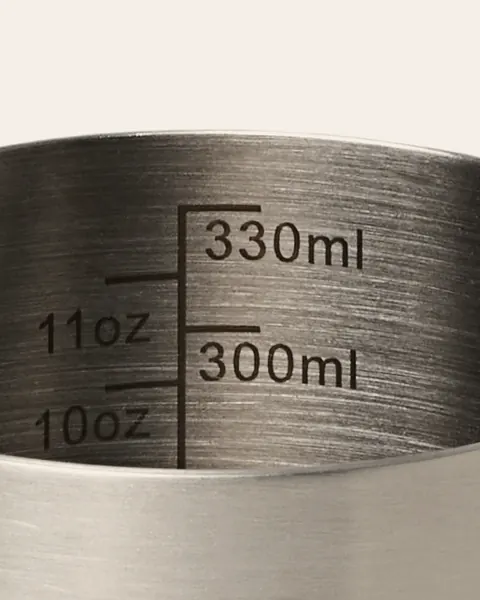
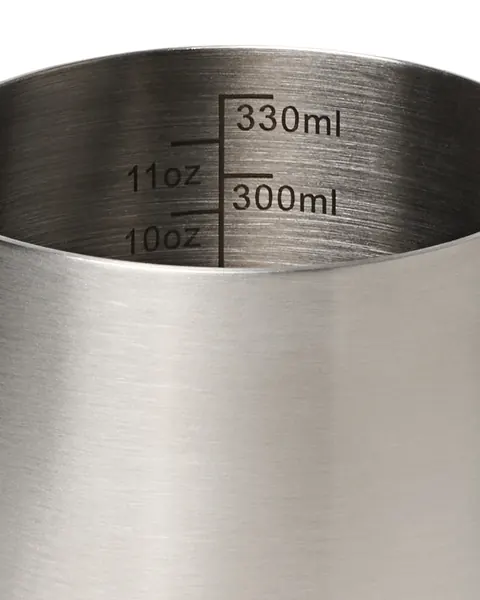
mjoar.com v4: Nachbesserung nach Sichtprüfung (Hero, Detailbilder, Überlauf)
- Hero Desktop: Text links (Spalten 1-5), Familienbild rechts als ganzes
  Original 1:1 (familie-q), Überschrift und Bild im ersten Schirm, keine
  Kanne angeschnitten; mobil unverändert
- Detailbilder neu aus den Originalen (bilder.py): Wand 0307 und Griff 0182
  mit 1600 x 2000, Ausguss und Skala aus 0215 (Original 1284 px); Nahaufnahmen
  auf Weiß, per CSS ins Creme multipliziert, kein eingerechneter Kasten mehr
- Details: Text in allen fünf Zeilen vertikal mittig zum Bild (align-self)
- Mobil: Kopfzeile passt bis 360 px, kein waagerechter Überlauf mehr

diff --git a/de/index.html b/de/index.html
@@ -36,9 +36,9 @@
   </div>
 </header>
 <main id="inhalt">
-<section class="hero">
-  <div class="innen hero-bild"><picture><source media="(max-width: 720px)" srcset="/assets/web/familie-m-480.webp 480w, /assets/web/familie-m-960.webp 960w, /assets/web/familie-m-1600.webp 1600w, /assets/web/familie-m-2400.webp 2400w" sizes="100vw" width="960" height="1200"><img src="/assets/web/familie-d-960.webp" srcset="/assets/web/familie-d-480.webp 480w, /assets/web/familie-d-960.webp 960w, /assets/web/familie-d-1600.webp 1600w, /assets/web/familie-d-2400.webp 2400w" sizes="100vw" width="960" height="640" alt="Die LUN in vier Farben" fetchpriority="high" decoding="async"></picture></div>
-  <div class="innen raster hero-text">
+<section class="hero innen raster">
+  <div class="hero-bild"><picture><source media="(max-width: 720px)" srcset="/assets/web/familie-m-480.webp 480w, /assets/web/familie-m-960.webp 960w, /assets/web/familie-m-1600.webp 1600w, /assets/web/familie-m-2400.webp 2400w" sizes="100vw" width="960" height="1200"><source media="(max-width: 860px)" srcset="/assets/web/familie-d-480.webp 480w, /assets/web/familie-d-960.webp 960w, /assets/web/familie-d-1600.webp 1600w, /assets/web/familie-d-2400.webp 2400w" sizes="100vw" width="960" height="640"><img src="/assets/web/familie-q-960.webp" srcset="/assets/web/familie-q-480.webp 480w, /assets/web/familie-q-960.webp 960w, /assets/web/familie-q-1600.webp 1600w, /assets/web/familie-q-2400.webp 2400w" sizes="640px" width="960" height="960" alt="Die LUN in vier Farben" fetchpriority="high" decoding="async"></picture></div>
+  <div class="hero-text">
     <div class="hero-zeile">
       <p class="dach">LUN 350 · Milchkännchen</p>
       <h1>Ein Milchkännchen, das stehen bleiben darf</h1>
@@ -69,7 +69,7 @@
 
 <section class="abschnitt innen" id="details">
   <div class="raster kopfzeile" data-reveal><div class="k-titel"><p class="dach">Bis ins Detail</p><h2>Für jeden Tag, für viele Jahre</h2></div><p class="k-text">Damit sie dich möglichst lange begleitet, haben wir bei der LUN auch auf die Dinge geachtet, die man nicht auf den ersten Blick sieht.</p></div>
-  <div class="raster paar bild-rechts" data-reveal><div class="paar-bild"><img class="b45" src="/assets/web/detail-ausguss-428.webp" srcset="/assets/web/detail-ausguss-428.webp 428w" sizes="(max-width: 860px) 100vw, 520px" width="960" height="1200" alt="Ausguss der LUN" loading="lazy" decoding="async"></div><div class="paar-text"><h3>Der Ausguss</h3><p>Beim Ausguss haben wir uns für eine ausgewogene Form entschieden, nicht zu schmal und nicht zu breit. So hast du Spielraum für verschiedene Muster, vom Herz bis zur Rosetta. Vorne ist er rund gezogen, dadurch läuft die Milch gleichmäßig und reißt am Ende sauber ab.</p></div></div><div class="raster paar bild-links" data-reveal><div class="paar-bild"><img class="b45" src="/assets/web/detail-wand-657.webp" srcset="/assets/web/detail-wand-480.webp 480w, /assets/web/detail-wand-657.webp 657w" sizes="(max-width: 860px) 100vw, 520px" width="960" height="1201" alt="Rand der LUN in Juniper" loading="lazy" decoding="async"></div><div class="paar-text"><h3>Die Wand</h3><p>Die LUN ist aus einem Millimeter Edelstahl 304 gefertigt, die ganze Kanne einschließlich Griff. Viele Kannen in dieser Größe sind dünner. Das zusätzliche Gewicht liegt gut in der Hand und macht das Gießen ruhiger.</p></div></div><div class="raster paar bild-rechts" data-reveal><div class="paar-bild"><img class="b45" src="/assets/web/gebrauch-aufschaeumen-960.webp" srcset="/assets/web/gebrauch-aufschaeumen-480.webp 480w, /assets/web/gebrauch-aufschaeumen-960.webp 960w, /assets/web/gebrauch-aufschaeumen-1600.webp 1600w, /assets/web/gebrauch-aufschaeumen-2400.webp 2400w" sizes="(max-width: 860px) 100vw, 520px" width="960" height="1200" alt="Milch aufschäumen mit der LUN in Juniper" loading="lazy" decoding="async"></div><div class="paar-text"><h3>Die Wärme</h3><p>Edelstahl leitet Wärme gut. Beim Aufschäumen kannst du deshalb am Korpus fühlen, wie warm die Milch gerade ist, und mit etwas Übung bekommst du dafür schnell ein Gefühl. Wird er zu heiß zum Anfassen, ist die Milch fertig. Der Griff bleibt dabei angenehm.</p></div></div><div class="raster paar bild-links" data-reveal><div class="paar-bild"><img class="b45" src="/assets/web/detail-skala-480.webp" srcset="/assets/web/detail-skala-480.webp 480w" sizes="(max-width: 860px) 100vw, 520px" width="960" height="1199" alt="Skala innen in ml und oz" loading="lazy" decoding="async"></div><div class="paar-text"><h3>Die Skala</h3><p>Innen ist eine Skala in Milliliter und Unzen lasergraviert. So kannst du jeden Morgen die gleiche Menge Milch nehmen, ohne zu schätzen. Weil sie im Stahl sitzt, hält sie auch in der Spülmaschine.</p></div></div><div class="raster paar bild-rechts" data-reveal><div class="paar-bild"><img class="b45" src="/assets/web/detail-griff-480.webp" srcset="/assets/web/detail-griff-480.webp 480w" sizes="(max-width: 860px) 100vw, 520px" width="960" height="1200" alt="Griff und Oberfläche der LUN in Linen" loading="lazy" decoding="async"></div><div class="paar-text"><h3>Der Griff</h3><p>Der Griff ist nahtlos angesetzt, ohne sichtbare Schweißpunkte. Das sieht ruhiger aus, lässt sich leichter sauber halten, und die Kanne lässt sich beim Eingießen gut führen.</p></div></div>
+  <div class="raster paar bild-rechts" data-reveal><div class="paar-bild"><img class="b45" src="/assets/web/detail-ausguss-680.webp" srcset="/assets/web/detail-ausguss-480.webp 480w, /assets/web/detail-ausguss-680.webp 680w" sizes="(max-width: 860px) 100vw, 520px" width="960" height="1200" alt="Ausguss der LUN" loading="lazy" decoding="async"></div><div class="paar-text"><h3>Der Ausguss</h3><p>Beim Ausguss haben wir uns für eine ausgewogene Form entschieden, nicht zu schmal und nicht zu breit. So hast du Spielraum für verschiedene Muster, vom Herz bis zur Rosetta. Vorne ist er rund gezogen, dadurch läuft die Milch gleichmäßig und reißt am Ende sauber ab.</p></div></div><div class="raster paar bild-links" data-reveal><div class="paar-bild"><img class="b45" src="/assets/web/detail-wand-960.webp" srcset="/assets/web/detail-wand-480.webp 480w, /assets/web/detail-wand-960.webp 960w, /assets/web/detail-wand-1600.webp 1600w" sizes="(max-width: 860px) 100vw, 520px" width="960" height="1200" alt="Rand der LUN in Juniper" loading="lazy" decoding="async"></div><div class="paar-text"><h3>Die Wand</h3><p>Die LUN ist aus einem Millimeter Edelstahl 304 gefertigt, die ganze Kanne einschließlich Griff. Viele Kannen in dieser Größe sind dünner. Das zusätzliche Gewicht liegt gut in der Hand und macht das Gießen ruhiger.</p></div></div><div class="raster paar bild-rechts" data-reveal><div class="paar-bild"><img class="b45" src="/assets/web/gebrauch-aufschaeumen-960.webp" srcset="/assets/web/gebrauch-aufschaeumen-480.webp 480w, /assets/web/gebrauch-aufschaeumen-960.webp 960w, /assets/web/gebrauch-aufschaeumen-1600.webp 1600w, /assets/web/gebrauch-aufschaeumen-2400.webp 2400w" sizes="(max-width: 860px) 100vw, 520px" width="960" height="1200" alt="Milch aufschäumen mit der LUN in Juniper" loading="lazy" decoding="async"></div><div class="paar-text"><h3>Die Wärme</h3><p>Edelstahl leitet Wärme gut. Beim Aufschäumen kannst du deshalb am Korpus fühlen, wie warm die Milch gerade ist, und mit etwas Übung bekommst du dafür schnell ein Gefühl. Wird er zu heiß zum Anfassen, ist die Milch fertig. Der Griff bleibt dabei angenehm.</p></div></div><div class="raster paar bild-links" data-reveal><div class="paar-bild"><img class="b45" src="/assets/web/detail-skala-784.webp" srcset="/assets/web/detail-skala-480.webp 480w, /assets/web/detail-skala-784.webp 784w" sizes="(max-width: 860px) 100vw, 520px" width="960" height="1200" alt="Skala innen in ml und oz" loading="lazy" decoding="async"></div><div class="paar-text"><h3>Die Skala</h3><p>Innen ist eine Skala in Milliliter und Unzen lasergraviert. So kannst du jeden Morgen die gleiche Menge Milch nehmen, ohne zu schätzen. Weil sie im Stahl sitzt, hält sie auch in der Spülmaschine.</p></div></div><div class="raster paar bild-rechts" data-reveal><div class="paar-bild"><img class="b45" src="/assets/web/detail-griff-960.webp" srcset="/assets/web/detail-griff-480.webp 480w, /assets/web/detail-griff-960.webp 960w, /assets/web/detail-griff-1600.webp 1600w" sizes="(max-width: 860px) 100vw, 520px" width="960" height="1200" alt="Griff und Oberfläche der LUN in Linen" loading="lazy" decoding="async"></div><div class="paar-text"><h3>Der Griff</h3><p>Der Griff ist nahtlos angesetzt, ohne sichtbare Schweißpunkte. Das sieht ruhiger aus, lässt sich leichter sauber halten, und die Kanne lässt sich beim Eingießen gut führen.</p></div></div>
 </section>
 
 <section class="abschnitt innen" id="gut-zu-wissen">

diff --git a/index.html b/index.html
@@ -36,9 +36,9 @@
   </div>
 </header>
 <main id="inhalt">
-<section class="hero">
-  <div class="innen hero-bild"><picture><source media="(max-width: 720px)" srcset="/assets/web/familie-m-480.webp 480w, /assets/web/familie-m-960.webp 960w, /assets/web/familie-m-1600.webp 1600w, /assets/web/familie-m-2400.webp 2400w" sizes="100vw" width="960" height="1200"><img src="/assets/web/familie-d-960.webp" srcset="/assets/web/familie-d-480.webp 480w, /assets/web/familie-d-960.webp 960w, /assets/web/familie-d-1600.webp 1600w, /assets/web/familie-d-2400.webp 2400w" sizes="100vw" width="960" height="640" alt="Die LUN in vier Farben" fetchpriority="high" decoding="async"></picture></div>
-  <div class="innen raster hero-text">
+<section class="hero innen raster">
+  <div class="hero-bild"><picture><source media="(max-width: 720px)" srcset="/assets/web/familie-m-480.webp 480w, /assets/web/familie-m-960.webp 960w, /assets/web/familie-m-1600.webp 1600w, /assets/web/familie-m-2400.webp 2400w" sizes="100vw" width="960" height="1200"><source media="(max-width: 860px)" srcset="/assets/web/familie-d-480.webp 480w, /assets/web/familie-d-960.webp 960w, /assets/web/familie-d-1600.webp 1600w, /assets/web/familie-d-2400.webp 2400w" sizes="100vw" width="960" height="640"><img src="/assets/web/familie-q-960.webp" srcset="/assets/web/familie-q-480.webp 480w, /assets/web/familie-q-960.webp 960w, /assets/web/familie-q-1600.webp 1600w, /assets/web/familie-q-2400.webp 2400w" sizes="640px" width="960" height="960" alt="Die LUN in vier Farben" fetchpriority="high" decoding="async"></picture></div>
+  <div class="hero-text">
     <div class="hero-zeile">
       <p class="dach">LUN 350 · Milchkännchen</p>
       <h1>Ein Milchkännchen, das stehen bleiben darf</h1>
@@ -69,7 +69,7 @@
 
 <section class="abschnitt innen" id="details">
   <div class="raster kopfzeile" data-reveal><div class="k-titel"><p class="dach">Bis ins Detail</p><h2>Für jeden Tag, für viele Jahre</h2></div><p class="k-text">Damit sie dich möglichst lange begleitet, haben wir bei der LUN auch auf die Dinge geachtet, die man nicht auf den ersten Blick sieht.</p></div>
-  <div class="raster paar bild-rechts" data-reveal><div class="paar-bild"><img class="b45" src="/assets/web/detail-ausguss-428.webp" srcset="/assets/web/detail-ausguss-428.webp 428w" sizes="(max-width: 860px) 100vw, 520px" width="960" height="1200" alt="Ausguss der LUN" loading="lazy" decoding="async"></div><div class="paar-text"><h3>Der Ausguss</h3><p>Beim Ausguss haben wir uns für eine ausgewogene Form entschieden, nicht zu schmal und nicht zu breit. So hast du Spielraum für verschiedene Muster, vom Herz bis zur Rosetta. Vorne ist er rund gezogen, dadurch läuft die Milch gleichmäßig und reißt am Ende sauber ab.</p></div></div><div class="raster paar bild-links" data-reveal><div class="paar-bild"><img class="b45" src="/assets/web/detail-wand-657.webp" srcset="/assets/web/detail-wand-480.webp 480w, /assets/web/detail-wand-657.webp 657w" sizes="(max-width: 860px) 100vw, 520px" width="960" height="1201" alt="Rand der LUN in Juniper" loading="lazy" decoding="async"></div><div class="paar-text"><h3>Die Wand</h3><p>Die LUN ist aus einem Millimeter Edelstahl 304 gefertigt, die ganze Kanne einschließlich Griff. Viele Kannen in dieser Größe sind dünner. Das zusätzliche Gewicht liegt gut in der Hand und macht das Gießen ruhiger.</p></div></div><div class="raster paar bild-rechts" data-reveal><div class="paar-bild"><img class="b45" src="/assets/web/gebrauch-aufschaeumen-960.webp" srcset="/assets/web/gebrauch-aufschaeumen-480.webp 480w, /assets/web/gebrauch-aufschaeumen-960.webp 960w, /assets/web/gebrauch-aufschaeumen-1600.webp 1600w, /assets/web/gebrauch-aufschaeumen-2400.webp 2400w" sizes="(max-width: 860px) 100vw, 520px" width="960" height="1200" alt="Milch aufschäumen mit der LUN in Juniper" loading="lazy" decoding="async"></div><div class="paar-text"><h3>Die Wärme</h3><p>Edelstahl leitet Wärme gut. Beim Aufschäumen kannst du deshalb am Korpus fühlen, wie warm die Milch gerade ist, und mit etwas Übung bekommst du dafür schnell ein Gefühl. Wird er zu heiß zum Anfassen, ist die Milch fertig. Der Griff bleibt dabei angenehm.</p></div></div><div class="raster paar bild-links" data-reveal><div class="paar-bild"><img class="b45" src="/assets/web/detail-skala-480.webp" srcset="/assets/web/detail-skala-480.webp 480w" sizes="(max-width: 860px) 100vw, 520px" width="960" height="1199" alt="Skala innen in ml und oz" loading="lazy" decoding="async"></div><div class="paar-text"><h3>Die Skala</h3><p>Innen ist eine Skala in Milliliter und Unzen lasergraviert. So kannst du jeden Morgen die gleiche Menge Milch nehmen, ohne zu schätzen. Weil sie im Stahl sitzt, hält sie auch in der Spülmaschine.</p></div></div><div class="raster paar bild-rechts" data-reveal><div class="paar-bild"><img class="b45" src="/assets/web/detail-griff-480.webp" srcset="/assets/web/detail-griff-480.webp 480w" sizes="(max-width: 860px) 100vw, 520px" width="960" height="1200" alt="Griff und Oberfläche der LUN in Linen" loading="lazy" decoding="async"></div><div class="paar-text"><h3>Der Griff</h3><p>Der Griff ist nahtlos angesetzt, ohne sichtbare Schweißpunkte. Das sieht ruhiger aus, lässt sich leichter sauber halten, und die Kanne lässt sich beim Eingießen gut führen.</p></div></div>
+  <div class="raster paar bild-rechts" data-reveal><div class="paar-bild"><img class="b45" src="/assets/web/detail-ausguss-680.webp" srcset="/assets/web/detail-ausguss-480.webp 480w, /assets/web/detail-ausguss-680.webp 680w" sizes="(max-width: 860px) 100vw, 520px" width="960" height="1200" alt="Ausguss der LUN" loading="lazy" decoding="async"></div><div class="paar-text"><h3>Der Ausguss</h3><p>Beim Ausguss haben wir uns für eine ausgewogene Form entschieden, nicht zu schmal und nicht zu breit. So hast du Spielraum für verschiedene Muster, vom Herz bis zur Rosetta. Vorne ist er rund gezogen, dadurch läuft die Milch gleichmäßig und reißt am Ende sauber ab.</p></div></div><div class="raster paar bild-links" data-reveal><div class="paar-bild"><img class="b45" src="/assets/web/detail-wand-960.webp" srcset="/assets/web/detail-wand-480.webp 480w, /assets/web/detail-wand-960.webp 960w, /assets/web/detail-wand-1600.webp 1600w" sizes="(max-width: 860px) 100vw, 520px" width="960" height="1200" alt="Rand der LUN in Juniper" loading="lazy" decoding="async"></div><div class="paar-text"><h3>Die Wand</h3><p>Die LUN ist aus einem Millimeter Edelstahl 304 gefertigt, die ganze Kanne einschließlich Griff. Viele Kannen in dieser Größe sind dünner. Das zusätzliche Gewicht liegt gut in der Hand und macht das Gießen ruhiger.</p></div></div><div class="raster paar bild-rechts" data-reveal><div class="paar-bild"><img class="b45" src="/assets/web/gebrauch-aufschaeumen-960.webp" srcset="/assets/web/gebrauch-aufschaeumen-480.webp 480w, /assets/web/gebrauch-aufschaeumen-960.webp 960w, /assets/web/gebrauch-aufschaeumen-1600.webp 1600w, /assets/web/gebrauch-aufschaeumen-2400.webp 2400w" sizes="(max-width: 860px) 100vw, 520px" width="960" height="1200" alt="Milch aufschäumen mit der LUN in Juniper" loading="lazy" decoding="async"></div><div class="paar-text"><h3>Die Wärme</h3><p>Edelstahl leitet Wärme gut. Beim Aufschäumen kannst du deshalb am Korpus fühlen, wie warm die Milch gerade ist, und mit etwas Übung bekommst du dafür schnell ein Gefühl. Wird er zu heiß zum Anfassen, ist die Milch fertig. Der Griff bleibt dabei angenehm.</p></div></div><div class="raster paar bild-links" data-reveal><div class="paar-bild"><img class="b45" src="/assets/web/detail-skala-784.webp" srcset="/assets/web/detail-skala-480.webp 480w, /assets/web/detail-skala-784.webp 784w" sizes="(max-width: 860px) 100vw, 520px" width="960" height="1200" alt="Skala innen in ml und oz" loading="lazy" decoding="async"></div><div class="paar-text"><h3>Die Skala</h3><p>Innen ist eine Skala in Milliliter und Unzen lasergraviert. So kannst du jeden Morgen die gleiche Menge Milch nehmen, ohne zu schätzen. Weil sie im Stahl sitzt, hält sie auch in der Spülmaschine.</p></div></div><div class="raster paar bild-rechts" data-reveal><div class="paar-bild"><img class="b45" src="/assets/web/detail-griff-960.webp" srcset="/assets/web/detail-griff-480.webp 480w, /assets/web/detail-griff-960.webp 960w, /assets/web/detail-griff-1600.webp 1600w" sizes="(max-width: 860px) 100vw, 520px" width="960" height="1200" alt="Griff und Oberfläche der LUN in Linen" loading="lazy" decoding="async"></div><div class="paar-text"><h3>Der Griff</h3><p>Der Griff ist nahtlos angesetzt, ohne sichtbare Schweißpunkte. Das sieht ruhiger aus, lässt sich leichter sauber halten, und die Kanne lässt sich beim Eingießen gut führen.</p></div></div>
 </section>
 
 <section class="abschnitt innen" id="gut-zu-wissen">

diff --git a/en/index.html b/en/index.html
@@ -36,9 +36,9 @@
   </div>
 </header>
 <main id="inhalt">
-<section class="hero">
-  <div class="innen hero-bild"><picture><source media="(max-width: 720px)" srcset="/assets/web/familie-m-480.webp 480w, /assets/web/familie-m-960.webp 960w, /assets/web/familie-m-1600.webp 1600w, /assets/web/familie-m-2400.webp 2400w" sizes="100vw" width="960" height="1200"><img src="/assets/web/familie-d-960.webp" srcset="/assets/web/familie-d-480.webp 480w, /assets/web/familie-d-960.webp 960w, /assets/web/familie-d-1600.webp 1600w, /assets/web/familie-d-2400.webp 2400w" sizes="100vw" width="960" height="640" alt="The LUN in four colours" fetchpriority="high" decoding="async"></picture></div>
-  <div class="innen raster hero-text">
+<section class="hero innen raster">
+  <div class="hero-bild"><picture><source media="(max-width: 720px)" srcset="/assets/web/familie-m-480.webp 480w, /assets/web/familie-m-960.webp 960w, /assets/web/familie-m-1600.webp 1600w, /assets/web/familie-m-2400.webp 2400w" sizes="100vw" width="960" height="1200"><source media="(max-width: 860px)" srcset="/assets/web/familie-d-480.webp 480w, /assets/web/familie-d-960.webp 960w, /assets/web/familie-d-1600.webp 1600w, /assets/web/familie-d-2400.webp 2400w" sizes="100vw" width="960" height="640"><img src="/assets/web/familie-q-960.webp" srcset="/assets/web/familie-q-480.webp 480w, /assets/web/familie-q-960.webp 960w, /assets/web/familie-q-1600.webp 1600w, /assets/web/familie-q-2400.webp 2400w" sizes="640px" width="960" height="960" alt="The LUN in four colours" fetchpriority="high" decoding="async"></picture></div>
+  <div class="hero-text">
     <div class="hero-zeile">
       <p class="dach">LUN 350 · Milk jug</p>
       <h1>A milk jug you&#x27;ll want to leave out</h1>
@@ -69,7 +69,7 @@
 
 <section class="abschnitt innen" id="details">
   <div class="raster kopfzeile" data-reveal><div class="k-titel"><p class="dach">Down to the detail</p><h2>For every day, for many years</h2></div><p class="k-text">So that it stays with you for a long time, we also paid attention to the things you don&#x27;t see at first glance.</p></div>
-  <div class="raster paar bild-rechts" data-reveal><div class="paar-bild"><img class="b45" src="/assets/web/detail-ausguss-428.webp" srcset="/assets/web/detail-ausguss-428.webp 428w" sizes="(max-width: 860px) 100vw, 520px" width="960" height="1200" alt="Spout of the LUN" loading="lazy" decoding="async"></div><div class="paar-text"><h3>The spout</h3><p>We chose a balanced spout, neither too narrow nor too wide. That gives you room for different patterns, from a heart to a rosetta. The tip is rounded, so the milk flows evenly and stops cleanly at the end.</p></div></div><div class="raster paar bild-links" data-reveal><div class="paar-bild"><img class="b45" src="/assets/web/detail-wand-657.webp" srcset="/assets/web/detail-wand-480.webp 480w, /assets/web/detail-wand-657.webp 657w" sizes="(max-width: 860px) 100vw, 520px" width="960" height="1201" alt="Rim of the LUN in Juniper" loading="lazy" decoding="async"></div><div class="paar-text"><h3>The wall</h3><p>The LUN is made from one millimetre of 304 stainless steel, the whole jug including the handle. Many jugs this size are thinner. The extra weight sits well in the hand and makes pouring steadier.</p></div></div><div class="raster paar bild-rechts" data-reveal><div class="paar-bild"><img class="b45" src="/assets/web/gebrauch-aufschaeumen-960.webp" srcset="/assets/web/gebrauch-aufschaeumen-480.webp 480w, /assets/web/gebrauch-aufschaeumen-960.webp 960w, /assets/web/gebrauch-aufschaeumen-1600.webp 1600w, /assets/web/gebrauch-aufschaeumen-2400.webp 2400w" sizes="(max-width: 860px) 100vw, 520px" width="960" height="1200" alt="Steaming milk with the LUN in Juniper" loading="lazy" decoding="async"></div><div class="paar-text"><h3>The warmth</h3><p>Stainless steel conducts heat well, so while you steam you can feel on the body how warm the milk is, and with a little practice you quickly get a feel for it. When it gets too hot to touch, the milk is ready. The handle stays comfortable.</p></div></div><div class="raster paar bild-links" data-reveal><div class="paar-bild"><img class="b45" src="/assets/web/detail-skala-480.webp" srcset="/assets/web/detail-skala-480.webp 480w" sizes="(max-width: 860px) 100vw, 520px" width="960" height="1199" alt="Scale inside in ml and oz" loading="lazy" decoding="async"></div><div class="paar-text"><h3>The scale</h3><p>A scale in millilitres and ounces is laser engraved inside. That way you can use the same amount of milk every morning without guessing. Because it&#x27;s in the steel, it lasts in the dishwasher too.</p></div></div><div class="raster paar bild-rechts" data-reveal><div class="paar-bild"><img class="b45" src="/assets/web/detail-griff-480.webp" srcset="/assets/web/detail-griff-480.webp 480w" sizes="(max-width: 860px) 100vw, 520px" width="960" height="1200" alt="Handle and finish of the LUN in Linen" loading="lazy" decoding="async"></div><div class="paar-text"><h3>The handle</h3><p>The handle is joined without a seam or visible weld points. It looks calmer, is easier to keep clean, and helps you guide the jug as you pour.</p></div></div>
+  <div class="raster paar bild-rechts" data-reveal><div class="paar-bild"><img class="b45" src="/assets/web/detail-ausguss-680.webp" srcset="/assets/web/detail-ausguss-480.webp 480w, /assets/web/detail-ausguss-680.webp 680w" sizes="(max-width: 860px) 100vw, 520px" width="960" height="1200" alt="Spout of the LUN" loading="lazy" decoding="async"></div><div class="paar-text"><h3>The spout</h3><p>We chose a balanced spout, neither too narrow nor too wide. That gives you room for different patterns, from a heart to a rosetta. The tip is rounded, so the milk flows evenly and stops cleanly at the end.</p></div></div><div class="raster paar bild-links" data-reveal><div class="paar-bild"><img class="b45" src="/assets/web/detail-wand-960.webp" srcset="/assets/web/detail-wand-480.webp 480w, /assets/web/detail-wand-960.webp 960w, /assets/web/detail-wand-1600.webp 1600w" sizes="(max-width: 860px) 100vw, 520px" width="960" height="1200" alt="Rim of the LUN in Juniper" loading="lazy" decoding="async"></div><div class="paar-text"><h3>The wall</h3><p>The LUN is made from one millimetre of 304 stainless steel, the whole jug including the handle. Many jugs this size are thinner. The extra weight sits well in the hand and makes pouring steadier.</p></div></div><div class="raster paar bild-rechts" data-reveal><div class="paar-bild"><img class="b45" src="/assets/web/gebrauch-aufschaeumen-960.webp" srcset="/assets/web/gebrauch-aufschaeumen-480.webp 480w, /assets/web/gebrauch-aufschaeumen-960.webp 960w, /assets/web/gebrauch-aufschaeumen-1600.webp 1600w, /assets/web/gebrauch-aufschaeumen-2400.webp 2400w" sizes="(max-width: 860px) 100vw, 520px" width="960" height="1200" alt="Steaming milk with the LUN in Juniper" loading="lazy" decoding="async"></div><div class="paar-text"><h3>The warmth</h3><p>Stainless steel conducts heat well, so while you steam you can feel on the body how warm the milk is, and with a little practice you quickly get a feel for it. When it gets too hot to touch, the milk is ready. The handle stays comfortable.</p></div></div><div class="raster paar bild-links" data-reveal><div class="paar-bild"><img class="b45" src="/assets/web/detail-skala-784.webp" srcset="/assets/web/detail-skala-480.webp 480w, /assets/web/detail-skala-784.webp 784w" sizes="(max-width: 860px) 100vw, 520px" width="960" height="1200" alt="Scale inside in ml and oz" loading="lazy" decoding="async"></div><div class="paar-text"><h3>The scale</h3><p>A scale in millilitres and ounces is laser engraved inside. That way you can use the same amount of milk every morning without guessing. Because it&#x27;s in the steel, it lasts in the dishwasher too.</p></div></div><div class="raster paar bild-rechts" data-reveal><div class="paar-bild"><img class="b45" src="/assets/web/detail-griff-960.webp" srcset="/assets/web/detail-griff-480.webp 480w, /assets/web/detail-griff-960.webp 960w, /assets/web/detail-griff-1600.webp 1600w" sizes="(max-width: 860px) 100vw, 520px" width="960" height="1200" alt="Handle and finish of the LUN in Linen" loading="lazy" decoding="async"></div><div class="paar-text"><h3>The handle</h3><p>The handle is joined without a seam or visible weld points. It looks calmer, is easier to keep clean, and helps you guide the jug as you pour.</p></div></div>
 </section>
 
 <section class="abschnitt innen" id="good-to-know">

diff --git a/assets/web/site.css b/assets/web/site.css
@@ -6,8 +6,8 @@
    - Raster: 12 Spalten, Inhalt höchstens 1280 px, Spaltenabstand --spalt. Textblöcke beginnen auf Spalte 1 oder 7.
    - Zwei Lesebreiten: --lese (36em) für Fließtext, --weit (60em) für Tabelle und Fragen.
    - Ausrichtung: alles linksbündig (Bedienelemente wie Knöpfe und Farbkacheln zentrieren nur ihren eigenen Inhalt).
-   - Bildformate: 4:5 für alle Bild/Text-Paare (und den Hero mobil), 3:2 für breite Bilder (Hero, ganz, ohne Anschnitt),
-     1:1 für Farbkacheln und Latte-Art-Motive.
+   - Bildformate: 4:5 für alle Bild/Text-Paare (und den Hero mobil), 3:2 für breite Bilder (Hero 721–860 px),
+     1:1 für Farbkacheln, Latte-Art-Motive und den Hero ab 861 px (ganzes Original, keine Kanne angeschnitten).
    - Bild/Text-Paare: erstes Paar je Abschnitt Bild rechts, dann abwechselnd. Bild 5 Spalten, Text 6 Spalten.
    - Formen: Knöpfe und Eingabefeld als Pille, Kacheln, Menü und Fotos mit 12 px Radius. */
 @import url("/assets/fonts/fonts.css");
@@ -156,12 +156,12 @@ h3 {
 .k-text { grid-column: 7 / span 6; max-width: var(--lese); margin: 0; }
 
 /* Hero: Bild in voller Breite 3:2, Zeile darunter (kein Text auf dem Bild) */
-.hero-bild { padding-top: clamp(16px, 2vw, 32px); }
-.hero-bild img { width: 100%; aspect-ratio: 3 / 2; object-fit: cover; border-radius: var(--radius); }
-.hero-text { padding-top: clamp(32px, 4vw, 64px); align-items: end; }
-.hero-zeile { grid-column: 1 / span 6; }
-.hero-zeile h1 { margin: 0; }
-.hero-neben { grid-column: 7 / span 6; max-width: var(--lese); }
+.hero { padding-top: clamp(16px, 2.4vw, 40px); align-items: center; }
+.hero-bild { grid-column: 7 / span 6; grid-row: 1; }
+.hero-bild img { width: 100%; aspect-ratio: 1 / 1; object-fit: cover; border-radius: var(--radius); }
+.hero-text { grid-column: 1 / span 5; grid-row: 1; }
+.hero-zeile h1 { font-size: clamp(40px, 4.4vw, 64px); margin: 0; }
+.hero-neben { margin-top: 28px; max-width: var(--lese); }
 .hero-neben p:last-child { margin-bottom: 0; }
 
 /* Einstieg: erster Absatz groß auf Spalte 1, der Rest auf Spalte 7 */
@@ -193,15 +193,15 @@ h3 {
 .wahl input:checked + span { border-color: var(--schiefer); }
 .wahl input:focus-visible + span { outline: 2px solid var(--knopf); outline-offset: 2px; }
 
-/* Freisteller (auf Weiß geliefert) gehen per Multiplizieren randlos in das Creme der Seite auf. Die Behälter tragen
+/* Freisteller und Nahaufnahmen auf Weiß gehen per Multiplizieren randlos in das Creme der Seite auf. Die Behälter tragen
    selbst Creme, damit das Multiplizieren auch in eigenen Ebenen (Reveal, Transform) gegen Creme rechnet. */
-img[src*="/farbe-"], img[src*="/detail-griff-"] { mix-blend-mode: multiply; }
+img[src*="/farbe-"], img[src*="/detail-griff-"], img[src*="/detail-ausguss-"], img[src*="/detail-skala-"] { mix-blend-mode: multiply; }
 .galerie-haupt, .wahl > span, .paar-bild { background: var(--creme); }
 
 /* Bild/Text-Paare 4:5 (Details, Milch und Latte Art, Über uns) */
 .paar { align-items: center; margin-top: var(--abstand-innen); }
 .kopfzeile + .paar { margin-top: 0; }
-.paar-bild, .paar-text { grid-row: 1; }
+.paar-bild, .paar-text { grid-row: 1; align-self: center; }
 .bild-rechts .paar-text { grid-column: 1 / span 6; }
 .bild-rechts .paar-bild { grid-column: 8 / span 5; }
 .bild-links .paar-bild { grid-column: 1 / span 5; }
@@ -210,7 +210,6 @@ img[src*="/farbe-"], img[src*="/detail-griff-"] { mix-blend-mode: multiply; }
 .paar-text > :last-child { margin-bottom: 0; }
 .b45 { width: 100%; aspect-ratio: 4 / 5; object-fit: cover; border-radius: var(--radius); }
 .b11 { width: 100%; aspect-ratio: 1 / 1; object-fit: cover; border-radius: var(--radius); }
-img.b45[src*="/detail-griff-"] { border-radius: 0; }
 
 /* Gut zu wissen: drei Absätze auf Spalte 1, Daten auf Spalte 7, Fragen in zwei Spalten */
 .gzw { align-items: start; }
@@ -296,8 +295,11 @@ img.b45[src*="/detail-griff-"] { border-radius: 0; }
   .gross { font-size: 17px; }
   .raster { display: block; }
   .kopf-innen { padding-top: 10px; padding-bottom: 10px; }
-  .hero-bild { padding: 0; }
-  .hero-bild img { border-radius: 0; }
+  .hero { padding-top: 0; }
+  .hero-bild { margin: 0 calc(-1 * var(--rand)); }
+  .hero-bild img { aspect-ratio: 3 / 2; border-radius: 0; }
+  .hero-text { padding-top: 32px; }
+  .hero-zeile h1 { font-size: clamp(44px, 5.4vw, 80px); }
   .hero-neben, .k-text { margin-top: 20px; }
   .e-lead { font-size: 25px; margin-bottom: 24px; }
   .abgesetzt { font-size: 25px; }
@@ -321,6 +323,15 @@ img.b45[src*="/detail-griff-"] { border-radius: 0; }
 @media (max-width: 720px) {
   .hero-bild img { aspect-ratio: 4 / 5; }
 }
+/* Kopf auf schmalen Telefonen: alles muss in die Breite passen (kein waagerechter Überlauf) */
+@media (max-width: 480px) {
+  .kopf-innen { gap: 8px; }
+  .kopf-rechts { gap: 8px; }
+  .sprachen { gap: 4px; }
+  .sprachen a { padding: 8px 0; }
+  .knopf-klein { padding: 8px 12px; letter-spacing: .06em; }
+}
 @media (max-width: 380px) {
   .sprachen span { display: none; }
+  .logo-svg { width: 76px; }
 }

diff --git a/_build/bilder.py b/_build/bilder.py
@@ -91,15 +91,16 @@ export("hero-m", crop_cover(h, 4, 5, cx=0.6, cy=0.5))
 for farbe in ["Juniper", "Linen", "Onyx", "Steel"]:
     export(f"farbe-{farbe.lower()}", freisteller(farbe))
 
-# Details: Mittelpunkte und Zoom wie A+ 03a–d, Format 4:5 (Copy v3 B3: „Detail-Close-up 4:5“)
-# 0215 ist auf Weiß fotografiert: per Multiplizieren auf Creme, keine weißen Kästen.
-d = on_creme(weiss_anheben(quelle("MJOAR0215")))
-export("detail-ausguss", crop_cover(d, 4, 5, cx=0.24, cy=0.33, zoom=2.4))
-export("detail-wand", crop_cover(quelle("MJOAR0307"), 4, 5, cx=0.347, cy=0.523, zoom=4.6))
-export("detail-skala", crop_cover(d, 4, 5, cx=0.72, cy=0.27, zoom=2.0))
-# Griffansatz (Fable 07.10.): eng auf den oberen Übergang Griff → Korpus, der Übergang liegt mittig (ca. x 650, y 440 im
-# 2000-px-Freisteller); auf Weiß, Multiplizieren per CSS wie die Farb-Freisteller.
-export("detail-griff", weiss_anheben(Image.open(FREI.format("Linen")).convert("RGB")).crop((410, 140, 410 + 480, 140 + 600)))
+# Details (Fable 08.10., Nachbesserung PR #4): kein eingerechnetes Creme mehr. Nahaufnahmen auf Weiß werden auf Weiß
+# geliefert, die Seite multipliziert sie per CSS (mix-blend-mode) randlos ins Creme, wie die Farb-Freisteller.
+# Ausguss und Skala: 0215 ist das einzige Nahfoto von Ausguss und Skala im Shooting, das Original hat nur 1284 px;
+# die Ausschnitte bleiben deshalb unter 1600 px (kein Hochrechnen). Wand und Griff aus Originalen mit 1600 x 2000.
+d = weiss_anheben(quelle("MJOAR0215"))
+export("detail-ausguss", d.crop((0, 100, 680, 950)))
+export("detail-skala", d.crop((500, 90, 1284, 1070)))
+export("detail-wand", crop_cover(quelle("MJOAR0307"), 4, 5, cx=0.30, cy=0.523, zoom=3779 / 2000))
+# Griff 0182 (Juniper, Freisteller auf Weiß): ganzer Griff mit beiden Ansätzen am Korpus, 1600 x 2000.
+export("detail-griff", weiss_anheben(quelle("MJOAR0182")).crop((150, 380, 1750, 2380)))
 
 # Größe 0021 1 (Hand), 4:5 wie A+ 06
 export("groesse", crop_cover(quelle("Mjoar_0021 1"), 4, 5, cx=0.42, cy=0.45))
@@ -117,6 +118,9 @@ for nr in ["0307", "0310", "0321", "0332"]:
 f = quelle("MJOAR0284")
 export("familie-d", crop_cover(f, 3, 2, cx=0.55, cy=0.58))
 export("familie-m", crop_cover(f, 4, 5, cx=0.5, cy=0.55))
+# Hero Desktop (Fable 08.10., Nachbesserung PR #4): ganzes Original 1:1, keine Kanne angeschnitten. Ein 3:2- oder
+# 4:5-Ausschnitt schneidet unten bzw. seitlich an (die Kannen reichen von x 0,12 bis 0,91 und y 0,12 bis 0,93).
+export("familie-q", f)
 
 # „Wer dahinter steht“ (Thorsten 07.10.): Hero ist jetzt 0284, hier deshalb 0239 (Steel auf Karton mit Beutel), keine Dopplung
 w = quelle("MJOAR0239")

diff --git a/_build/site.py b/_build/site.py
@@ -219,12 +219,25 @@ def paar(i, bild_html, text_html, klasse=""):
             f'<div class="paar-bild">{bild_html}</div><div class="paar-text">{text_html}</div></div>')
 
 
+def hero_bild(name_d, name_m, alt):
+    """Hero: bis 720 px eigener 4:5-Ausschnitt, bis 860 px 3:2 (beides wie bisher), darüber das ganze Original 1:1."""
+    if HERO_BILD != "0284":
+        return bild_mobil(name_d, name_m, alt, "100vw", lazy=False)
+    hm = round(BILDER[name_m]["h"] * 960 / BILDER[name_m]["w"])
+    hd = round(BILDER[name_d]["h"] * 960 / BILDER[name_d]["w"])
+    return (f'<picture><source media="(max-width: 720px)" srcset="{srcset(name_m)}" sizes="100vw" width="960" height="{hm}">'
+            f'<source media="(max-width: 860px)" srcset="{srcset(name_d)}" sizes="100vw" width="960" height="{hd}">'
+            f'{bild("familie-q", alt, "640px", lazy=False)}</picture>')
+
+
 def hero(lang):
     t, a = T[lang]["hero"], ALT[lang]
     hd, hm, halt = HERO_VARIANTEN[HERO_BILD]
-    return f"""<section class="hero">
-  <div class="innen hero-bild">{bild_mobil(hd, hm, a[halt], '100vw', lazy=False)}</div>
-  <div class="innen raster hero-text">
+    # Desktop: Text links (Spalten 1–5), Familienbild rechts (7–12, ganzes Original 1:1), beides im ersten Schirm.
+    # Mobil wie bisher: Bild randlos (4:5) über dem Text.
+    return f"""<section class="hero innen raster">
+  <div class="hero-bild">{hero_bild(hd, hm, a[halt])}</div>
+  <div class="hero-text">
     <div class="hero-zeile">
       <p class="dach">{e(t['dach'])}</p>
       <h1>{e(t['h'])}</h1>
